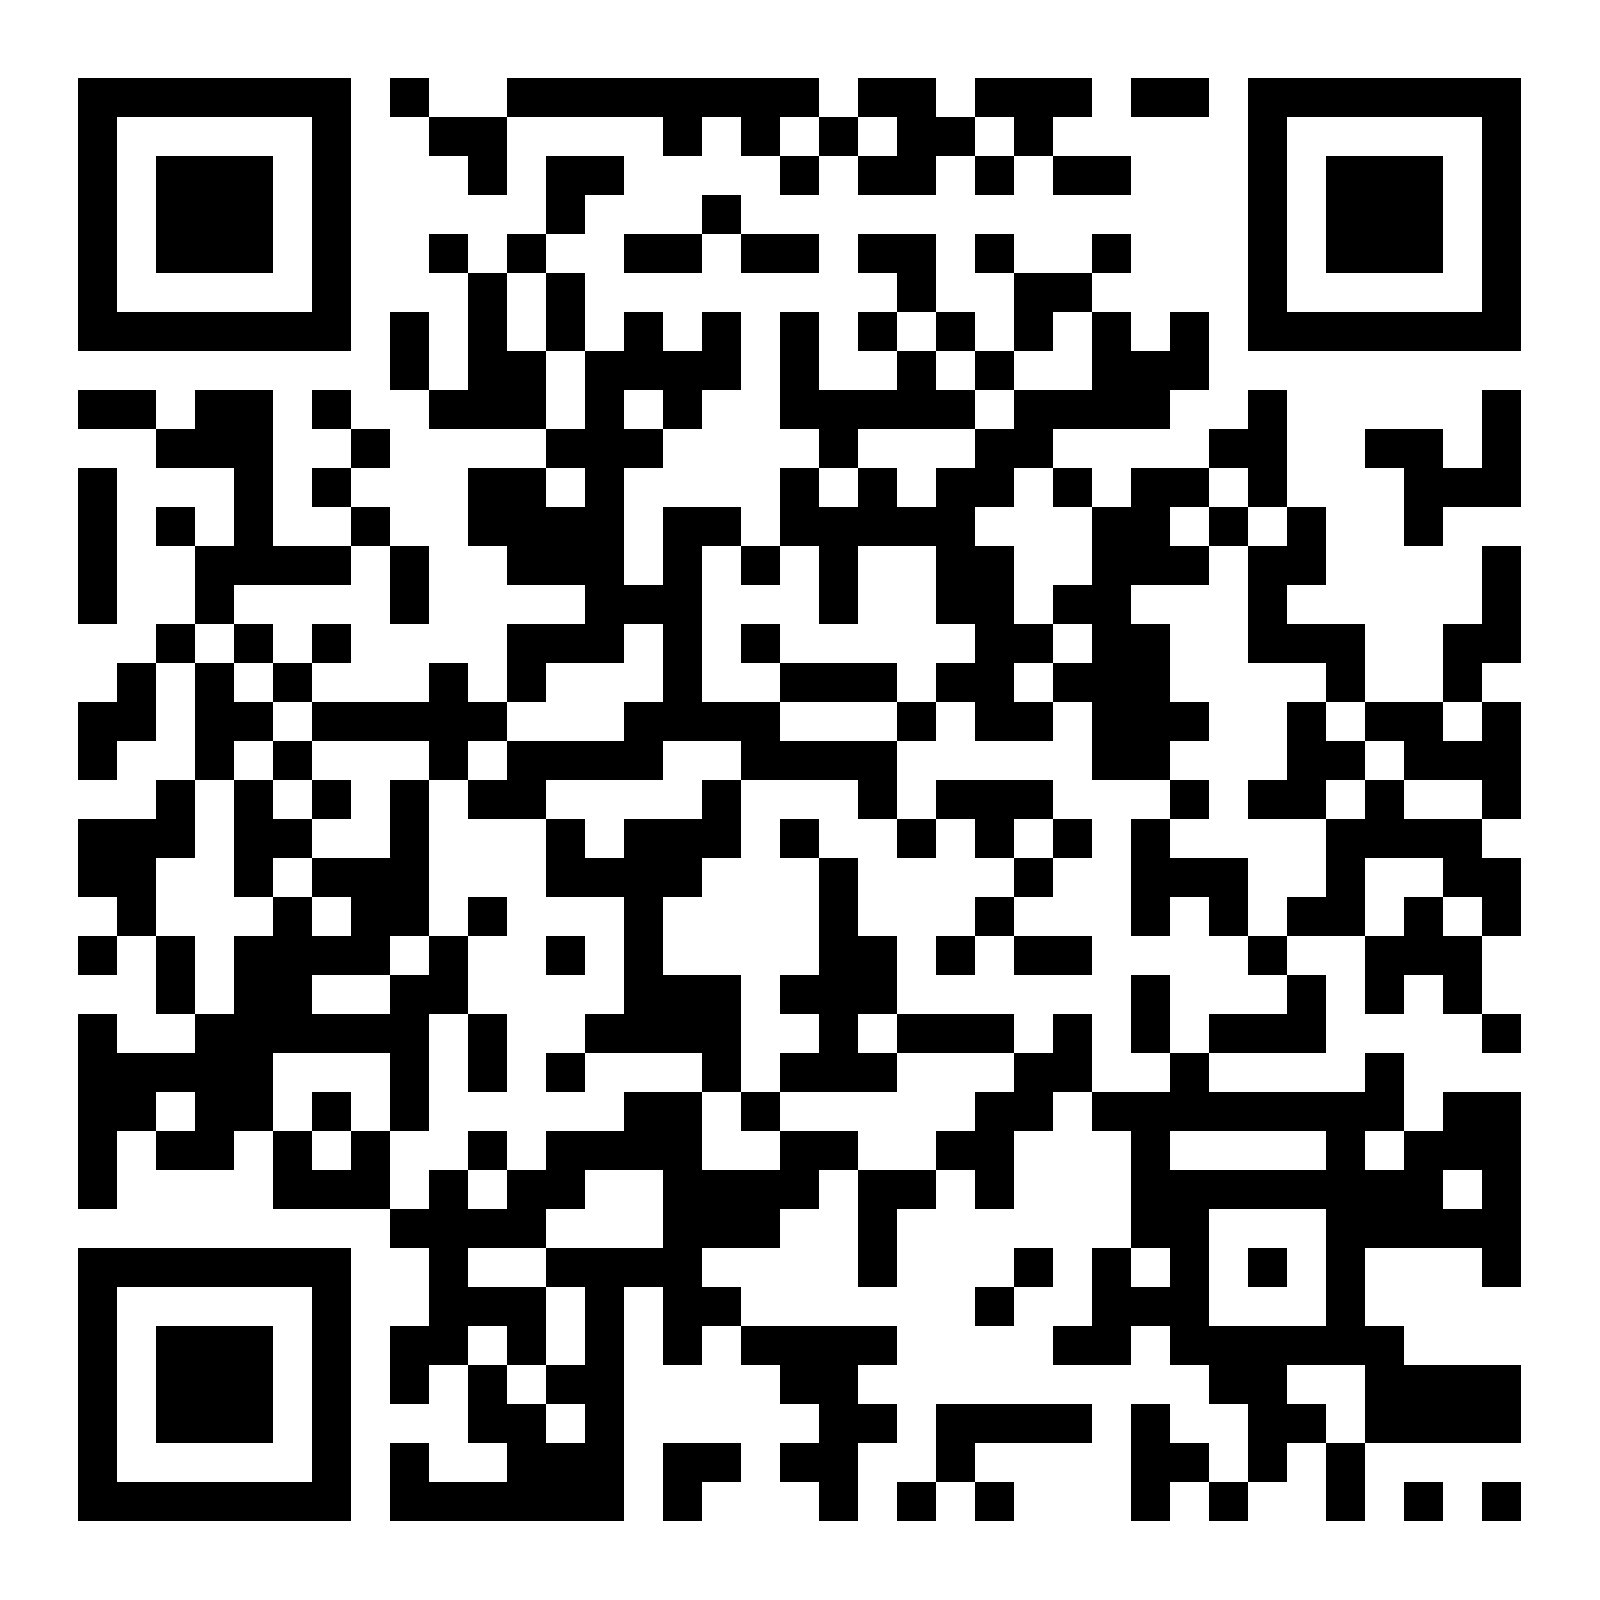
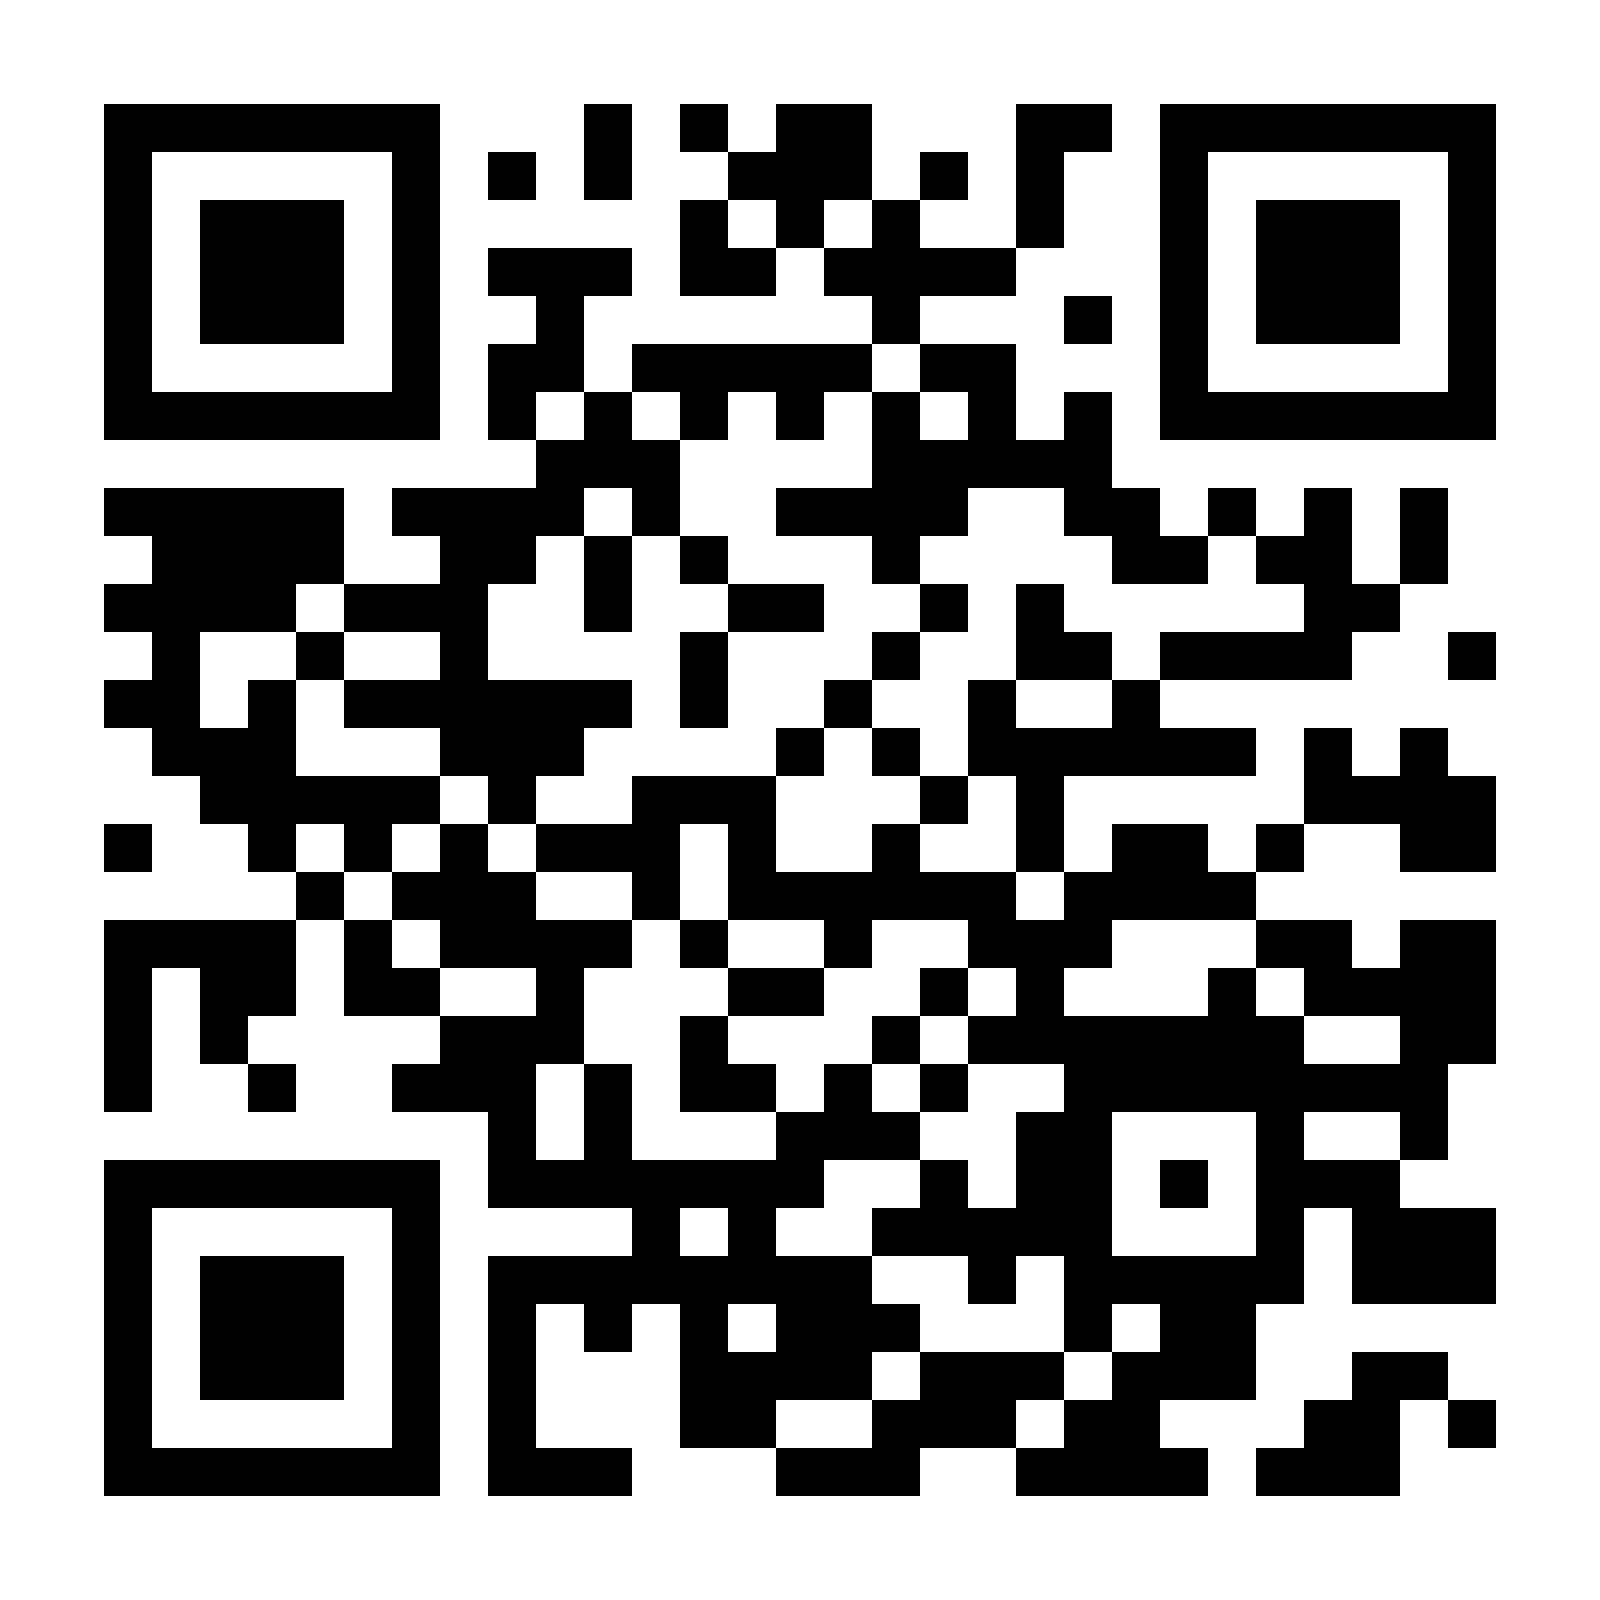
bbrin

diff --git a/index.html b/index.html
@@ -132,7 +132,7 @@
           <div class="col-lg-2" data-aos="fade-right">
             <img src="assets/img/Lino_about.jpg" class="img-fluid" alt="">
             <!---
-            <a href="https://brin.go.id/orei/en/pusat-riset-geoinformatika/page/lino-garda-denaro-st-ms-phd"
+            <a href="https://s.brin.go.id/s/prgi-dlinogarda.com"
               style="position:relative; display:block; width:120px; margin:10px auto 0; text-decoration:none;">
 
               <img src="assets/img/BRINQRcode.png"
@@ -152,13 +152,13 @@
             </a>
           --->
 
-            <a href="https://brin.go.id/orei/en/pusat-riset-geoinformatika/page/lino-garda-denaro-st-ms-phd"
+            <a href="https://s.brin.go.id/s/prgi-dlinogarda.com"
               class="brin-profile-btn">
               <i class="bi bi-box-arrow-up-right"></i> BRIN Profile
             </a>
             
           <div class="text-center mt-2">
-            <a href="https://brin.go.id/orei/en/pusat-riset-geoinformatika/page/lino-garda-denaro-st-ms-phd">
+            <a href="https://s.brin.go.id/s/prgi-dlinogarda.com">
               <img src="assets/img/BRINQRcode.png" 
                   alt="BRIN QR Code"
                   class="img-fluid brin-qr-hover"
